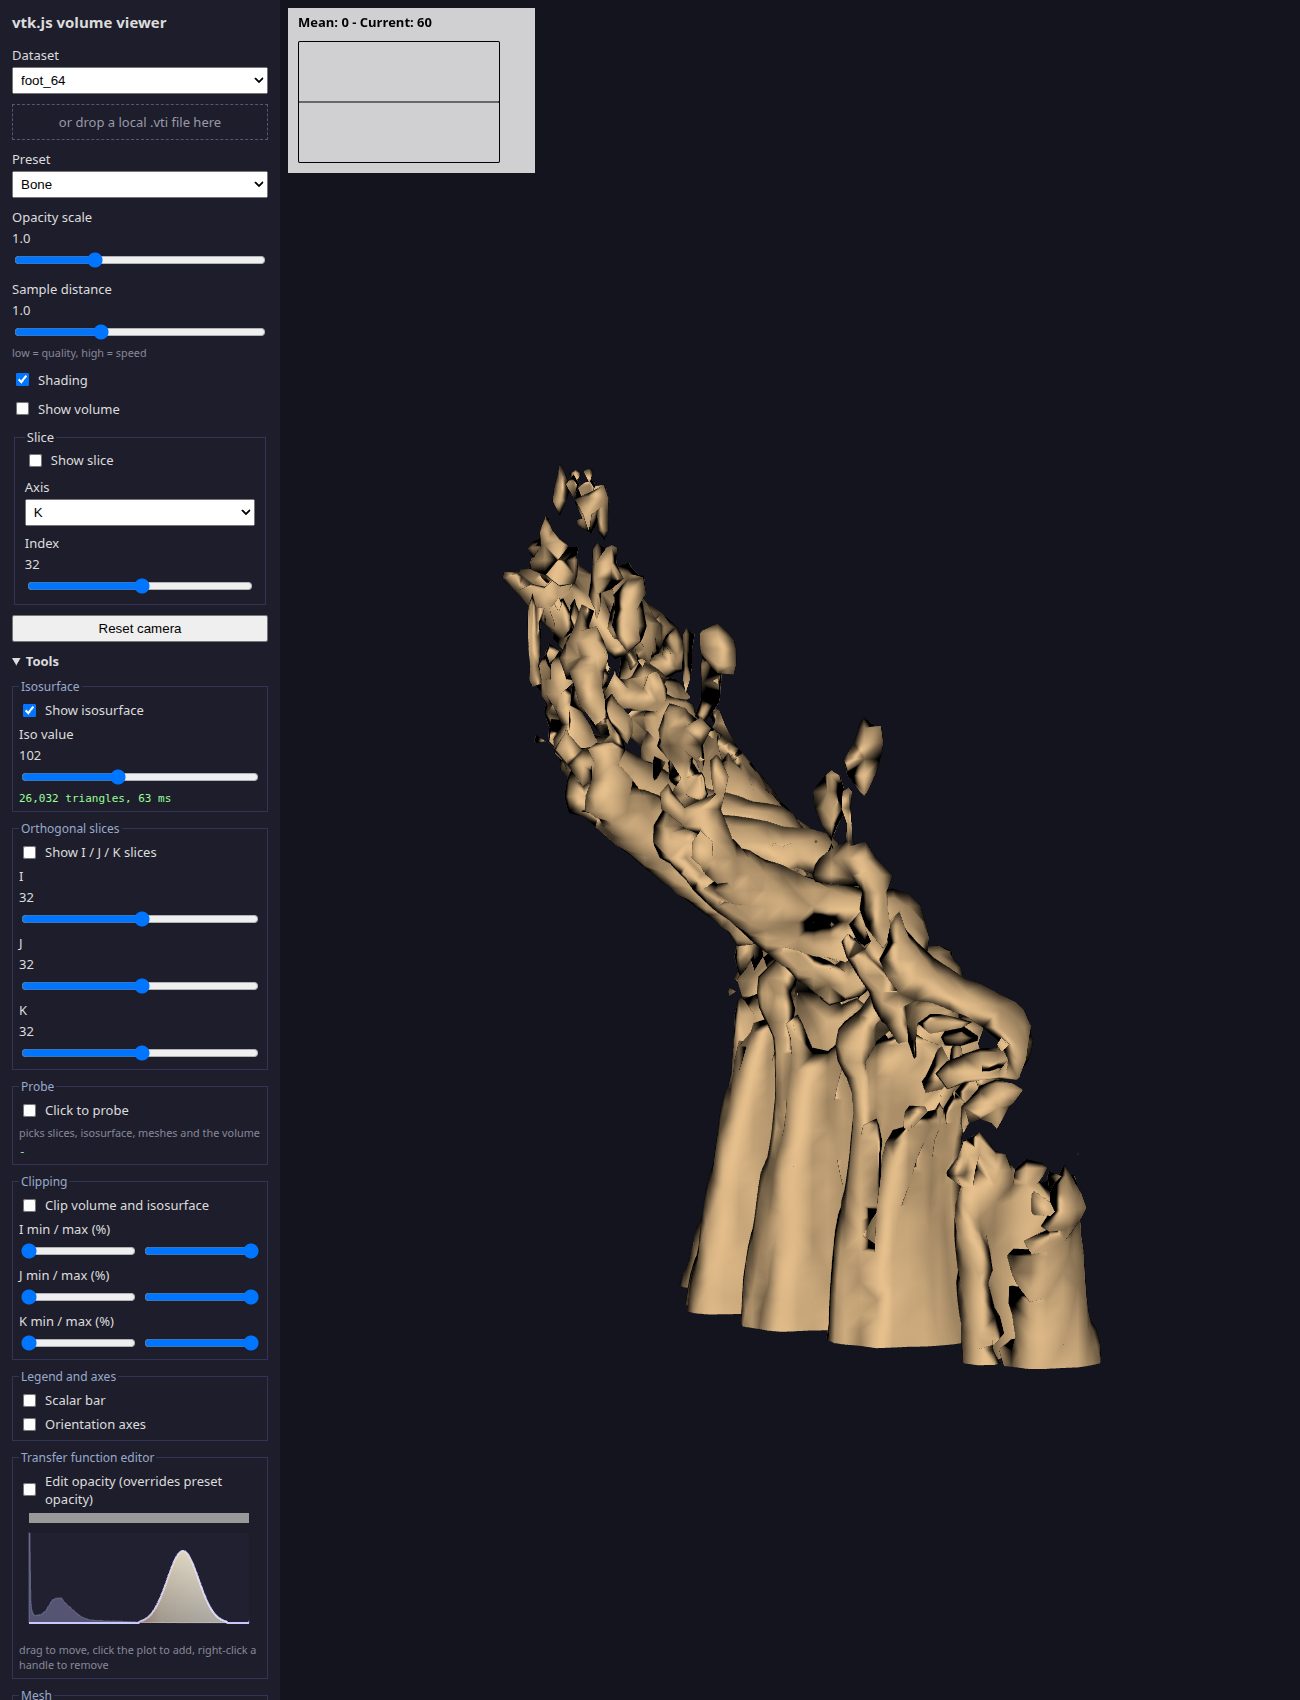
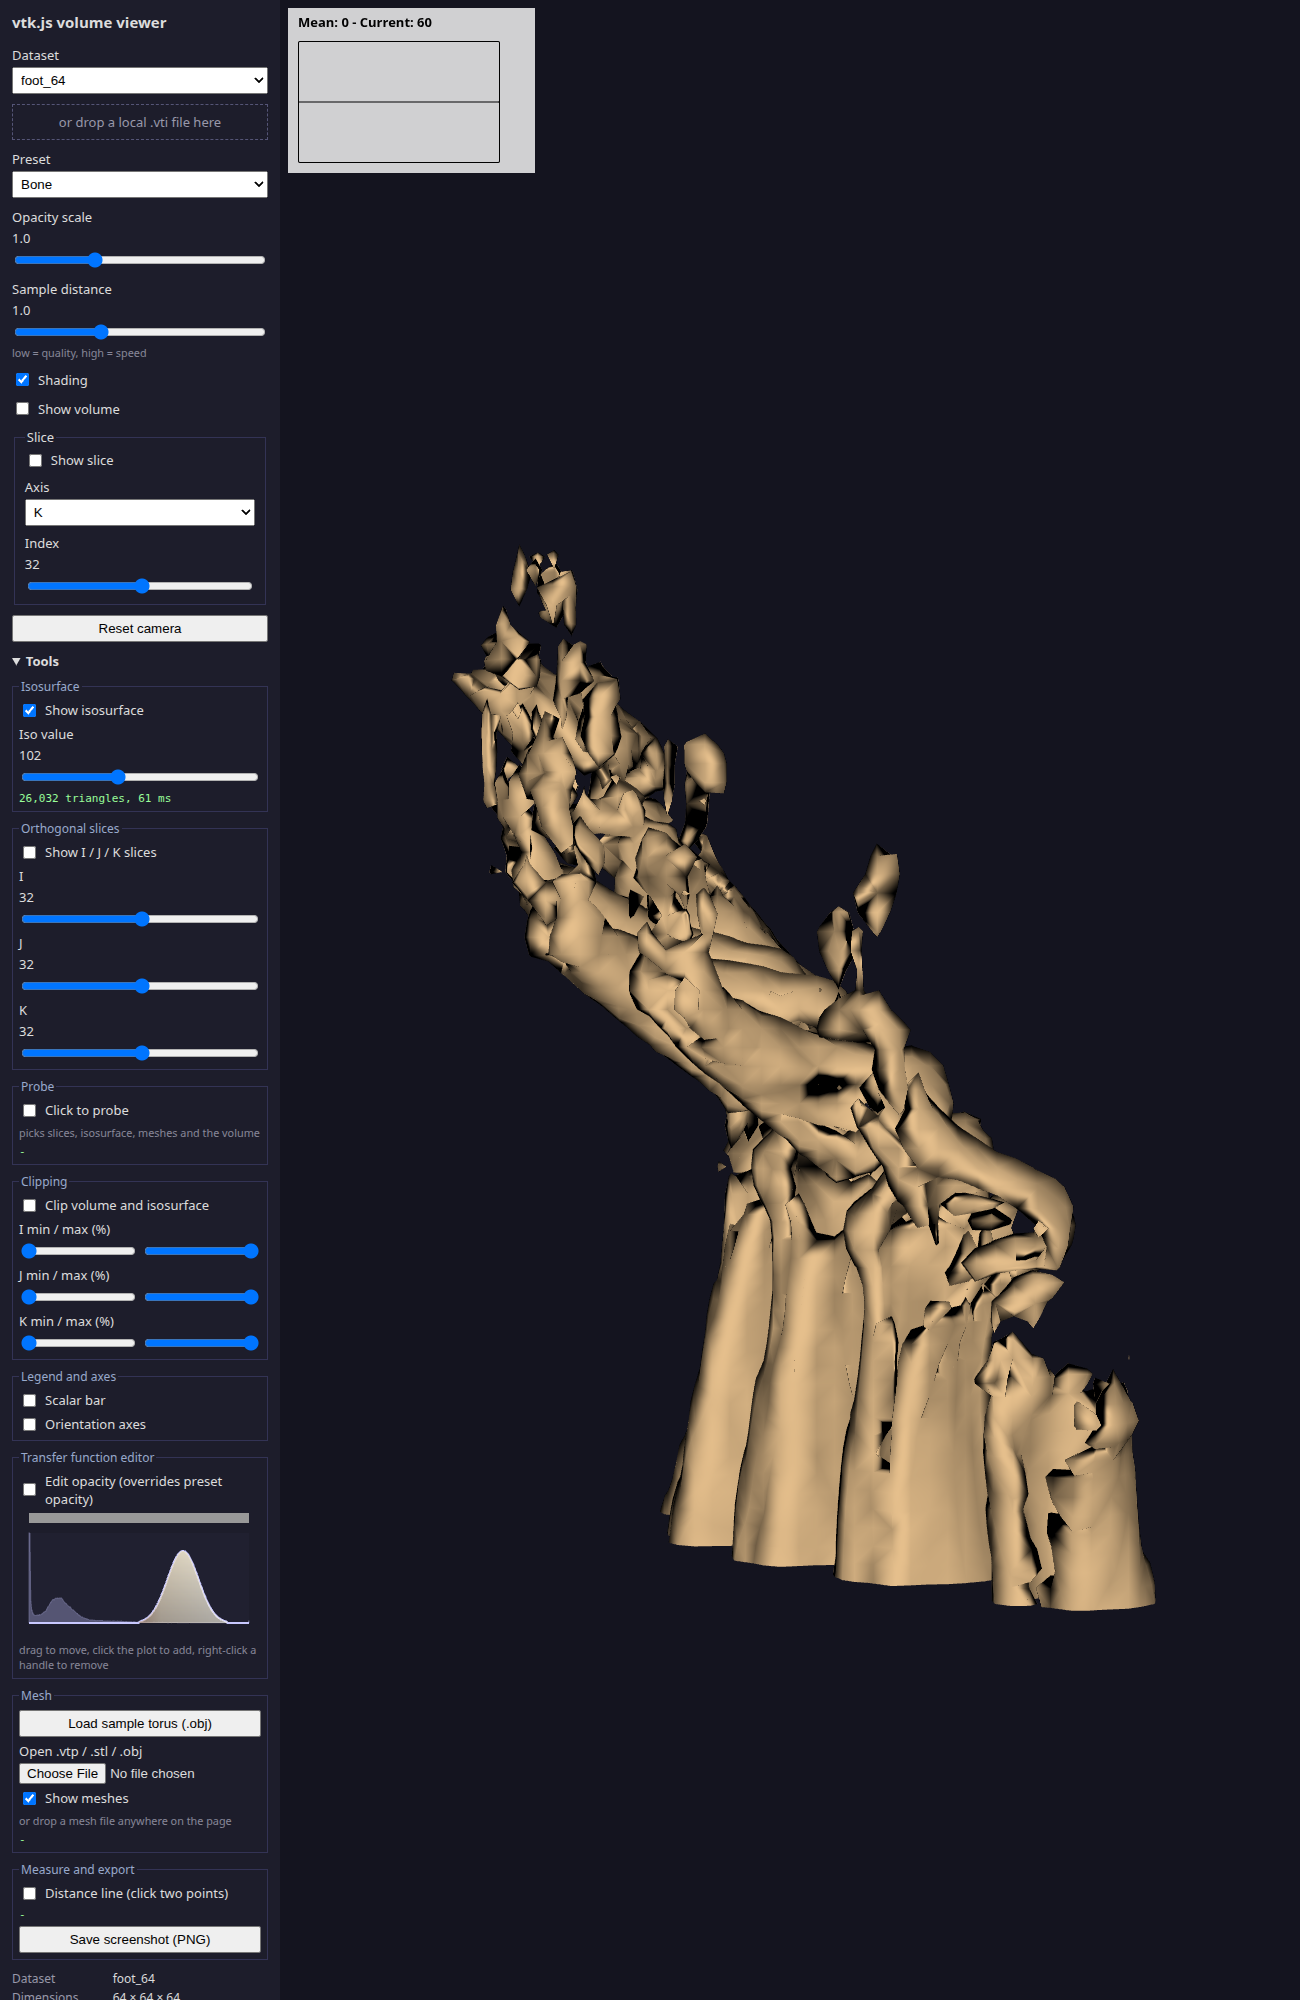
M7: Showcase A tools (isosurface, MPR, probe, clip, legend/axes, TF editor, mesh, measure, WebGPU probe)

Changed region(s): [[0.0, 0.0, 0.4, 1.0], [0.3385, 0.2806, 0.8923, 0.8106], [0.2154, 0.0, 0.3385, 0.0312]]

diff --git a/showcase-a/src/tools/index.js b/showcase-a/src/tools/index.js
@@ -51,7 +51,7 @@ export function initTools(viewer, body, ui) {
       <output class="res"></output>`);
     const mc = vtkImageMarchingCubes.newInstance({ contourValue: 100, computeNormals: true, mergePoints: true });
     const mapper = vtkMapper.newInstance({ scalarVisibility: false });
-    mapper.setInputConnection(mc.getOutputPort());
+    let connected = false; // connected on first use: an input-less mapper logs errors under the WebGPU view
     const actor = vtkActor.newInstance();
     actor.setMapper(mapper);
     actor.getProperty().setColor(0.9, 0.75, 0.55);
@@ -64,6 +64,7 @@ export function initTools(viewer, body, ui) {
       const t = performance.now();
       mc.setContourValue(+v.value);
       mc.setInputData(image);
+      if (!connected) { mapper.setInputConnection(mc.getOutputPort()); connected = true; }
       mc.update();
       const tris = mc.getOutputData().getPolys().getNumberOfCells();
       res.textContent = `${tris.toLocaleString()} triangles, ${(performance.now() - t).toFixed(0)} ms`;
@@ -105,7 +106,15 @@ export function initTools(viewer, body, ui) {
       const r = f.$(`.s${a}`);
       r.oninput = () => { m.setSlice(+r.value); f.$(`.o${a}`).textContent = r.value; render(); };
     }
-    f.$('.on').onchange = (e) => { for (const a in slices) slices[a].s.setVisibility(e.target.checked); render(); };
+    f.$('.on').onchange = (e) => {
+      for (const a in slices) slices[a].s.setVisibility(e.target.checked);
+      if (e.target.checked) { // oblique view so the three planes are distinguishable
+        const cam = renderer.getActiveCamera();
+        cam.azimuth(35); cam.elevation(25); cam.orthogonalizeViewUp();
+        renderer.resetCameraClippingRange();
+      }
+      render();
+    };
     return {
       actors: () => Object.values(slices).map((x) => x.s),
       setImage(im) {
@@ -210,6 +219,7 @@ export function initTools(viewer, body, ui) {
     const bar = vtkScalarBarActor.newInstance();
     bar.setScalarsToColors(ctf);
     bar.setAxisLabel('Intensity');
+    bar.setDrawNanAnnotation(false);
     bar.setVisibility(false);
     renderer.addActor(bar);
     const marker = vtkOrientationMarkerWidget.newInstance({
@@ -287,8 +297,7 @@ export function initTools(viewer, body, ui) {
           handle.onInteractionEvent(show);
           handle.onEndInteractionEvent(show);
         }
-        handle.setVisibility?.(true);
-        widget.reset();
+        handle.reset?.();
         wm.grabFocus(widget);
         res.textContent = 'click two points';
       } else if (handle) {

diff --git a/showcase-a/src/viewer.js b/showcase-a/src/viewer.js
@@ -22,7 +22,7 @@ export function parseVti(arrayBuffer) {
 // api: undefined = default WebGL2 view, 'WebGPU' = experimental WebGPU view (see tools/webgpu.js)
 export function createViewer(container, { fps = false, api } = {}) {
   const fsrw = vtkFullScreenRenderWindow.newInstance({
-    ...(api ? { viewAPI: api } : {}),
+    ...(api ? { defaultViewAPI: api } : {}),
     rootContainer: container,
     containerStyle: { position: 'absolute', inset: '0' },
     background: [0.08, 0.08, 0.12],

diff --git a/report/features_a_log.md b/report/features_a_log.md
@@ -1,0 +1,94 @@
+# Showcase A feature log (Stream A, 2026-10-28)
+
+Scope: vtk.js 37.4.6 (pinned, unchanged; no new npm dependencies). All new UI sits in a collapsible "Tools" section
+of the control panel (`showcase-a/src/ui.js` creates the `<details id="tools">`; the fieldsets are built in
+`showcase-a/src/tools/`). The dev screenshots in `report/figures/feat_a_*.png` were taken with headless Chrome
+(puppeteer-core) on software GL (SwiftShader) with the `foot_64` dataset, so they show correctness only, not speed.
+Minutes are approximate wall-clock including testing. Every API was checked against
+`showcase-a/node_modules/@kitware/vtk.js` before use.
+
+Files added: `src/tools/index.js`, `src/tools/mesh.js`, `src/tools/webgpu.js`, `gen_sample_mesh.mjs`,
+`public/mesh/sample_torus.obj` (125 KB generated torus, 2304 triangles). Files changed: `src/viewer.js` (exports
+`volume, volMapper, slice, ctf, ofun`; optional `api` argument), `src/ui.js` (Tools container), `src/main.js` (wiring,
+mesh drop routing, `?api=webgpu`), `index.html` (CSS for Tools). `src/bench.js` is untouched and calls
+`createViewer(container)` with the same arguments as before.
+
+| # | Feature | Status | Min |
+|---|---|---|---|
+| 1 | Isosurface | works | 15 |
+| 2 | Three orthogonal slices | works | 8 |
+| 3 | Probe (IJK + value) | works | 8 |
+| 4 | Clipping | works | 8 |
+| 5 | Scalar bar + orientation axes | works | 6 |
+| 6 | Transfer-function editor | works | 8 |
+| 7 | Mesh loading | works (.obj tested; .vtp/.stl not tested) | 8 |
+| 8 | Distance line + screenshot export | works | 15 |
+| 9 | WebGPU probe | partial | 20 |
+
+## 1. Isosurface
+- Status: works.
+- Modules: `Filters/General/ImageMarchingCubes` (`contourValue`, `computeNormals`, `mergePoints`), `Rendering/Core/Mapper`, `Rendering/Core/Actor`.
+- Use: Tools > Isosurface > "Show isosurface"; the slider range follows the dataset scalar range; the surface is recomputed on slider release (`change`). The result line shows triangle count and compute time.
+- Observed: foot_64 at value 102 gave 26,032 triangles in 63 ms; value 60 gave 40,296 triangles in 37 ms. The filter runs on the main thread (a JS triple loop over all voxels), so 256^3 volumes block the page while it runs; not timed on 256^3. The mapper is connected to the filter on first use, because an input-less mapper logs "No input" errors under the WebGPU view.
+- Screenshot: `report/figures/feat_a_isosurface.png` (volume hidden, surface only; software GL dev shot).
+
+## 2. Three orthogonal slices
+- Status: works.
+- Modules: `Rendering/Core/ImageSlice`, `Rendering/Core/ImageMapper` (slicing modes I/J/K), shared `vtkColorTransferFunction`.
+- Use: Tools > Orthogonal slices > "Show I / J / K slices"; three sliders. Enabling it rotates the camera (azimuth 35, elevation 25) so the planes can be told apart.
+- Observed: the slices use the preset colour function without opacity, so a black background value is opaque and hides the volume behind the planes (same behaviour as the existing single slice). The existing "Slice" fieldset is unchanged.
+- Screenshot: `report/figures/feat_a_mpr.png`.
+
+## 3. Probe
+- Status: works.
+- Modules: `Rendering/Core/CellPicker` (`pickFromList`, `getPickedPositions`), `Filters/Sources/SphereSource` for the marker, `image.worldToIndex`.
+- Use: Tools > Probe > "Click to probe", then click the 3D view; the panel shows world position, IJK and the voxel value. A click that moves more than 3 px is treated as a camera drag and ignored.
+- Observed: picks the visible slices, isosurface, meshes and the volume (the volume is picked through its opacity function, `opacityThreshold` 0.2). Test on foot_64 returned world (127.5, 127.5, 147.7), IJK (32, 32, 37), value 198. The value is the nearest voxel (rounded IJK), not interpolated. Picks outside the image report "outside image".
+- Screenshot: `report/figures/feat_a_probe.png`.
+
+## 4. Clipping
+- Status: works.
+- Modules: `Common/DataModel/Plane`, `addClippingPlane` / `removeAllClippingPlanes` (`Rendering/Core/AbstractMapper`) on the volume mapper and the isosurface mapper.
+- Use: Tools > Clipping > "Clip volume and isosurface"; min/max sliders per axis in percent of the image bounds. Six planes are always used; the shader keeps the half-space the normal points to.
+- Observed: the OpenGL volume shader supports at most 6 clipping planes (`vClipPlaneNormals[6]`), which is exactly what is used. Not using `vtkImageCroppingWidget`; plain planes were simpler. Mesh actors and slices are not clipped.
+- Screenshot: `report/figures/feat_a_clip.png` (I min 45 %, K max 60 %).
+
+## 5. Scalar bar and orientation axes
+- Status: works.
+- Modules: `Rendering/Core/ScalarBarActor` (bound to the colour transfer function, NaN annotation off), `Interaction/Widgets/OrientationMarkerWidget` with `Rendering/Core/AxesActor`.
+- Use: Tools > Legend and axes, two checkboxes.
+- Observed: needed the `Rendering/Profiles/Geometry` import (the Volume profile alone does not register the geometry classes the scalar bar needs). The bar shows the colour function, not opacity.
+- Screenshot: `report/figures/feat_a_legend_axes.png`.
+
+## 6. Transfer-function editor
+- Status: works.
+- Modules: `Interaction/Widgets/PiecewiseGaussianWidget` (histogram from the scalar array, `applyOpacity` into the volume's piecewise function).
+- Use: Tools > Transfer function editor > tick "Edit opacity"; drag the Gaussian handles, click the plot to add one, right-click a handle to remove it.
+- Observed: while enabled it overrides the preset opacity; changing the preset or the "Opacity scale" slider unticks it (the preset code rewrites the same piecewise function). Only opacity is edited; colour still comes from the preset. The histogram is computed from the full scalar array on each dataset load. A drag via puppeteer moved the Gaussian and the volume re-rendered.
+- Screenshot: `report/figures/feat_a_tf_editor_dragged.png`.
+
+## 7. Mesh loading
+- Status: works for `.obj` (tested through the sample button); `.vtp` and `.stl` code paths use `XMLPolyDataReader` and `STLReader` but were not exercised with files.
+- Modules: `IO/Misc/OBJReader`, `IO/Geometry/STLReader`, `IO/XML/XMLPolyDataReader`.
+- Use: Tools > Mesh > "Load sample torus (.obj)", the file input, or drop a `.vtp/.stl/.obj` file on the page (main.js routes by extension; `.vti` drops behave as before).
+- Observed: meshes are shown in world coordinates and the camera is not reset, so a mesh far from the volume may be off screen. The sample is generated by `node gen_sample_mesh.mjs` and sits in the middle of the 256^3 sample volumes. The loaded mesh is not removed by loading another; the "Show meshes" checkbox hides all of them.
+- Screenshot: `report/figures/feat_a_mesh.png`.
+
+## 8. Distance measurement and screenshot export
+- Status: works.
+- Modules: `Widgets/Widgets3D/LineWidget` (`getDistance`), `Widgets/Core/WidgetManager` (`ViewTypes.VOLUME`, `grabFocus`), `Widgets/Manipulators/PlaneManipulator`; export uses `getApiSpecificRenderWindow().captureNextImage('image/png')`.
+- Use: Tools > Measure and export > "Distance line", click two points in the 3D view; the distance is shown in world units and updates when a handle is dragged. "Save screenshot (PNG)" downloads `vtkjs_viewer.png`.
+- Observed: the points are placed on a camera-facing plane through the image centre (`setWidgetOrigin`), not on a surface or voxel, so the distance is a plane measurement. Unticking removes the widget. Test distance 83.74 on foot_64. The export produced a PNG data URL of about 1.2 MB (checked by intercepting the anchor click; the file itself was not opened). The first test failed because `widget.reset` is on the view widget (`handle.reset`), fixed.
+- Screenshot: `report/figures/feat_a_measure.png`.
+
+## 9. WebGPU probe
+- Status: partial.
+- Modules: `Rendering/Profiles/Volume` already imports the WebGPU volume, image-slice and geometry classes; `FullScreenRenderWindow` selects the view through its `defaultViewAPI` initial value (the `viewAPI` URL parameter also works there, the `viewAPI` initial value does not).
+- Use: open `?api=webgpu`. `src/tools/webgpu.js` queries `navigator.gpu` and the adapter, and adds a "WebGPU" row to the info list. The default page (no parameter) is unchanged.
+- Observed: in headless Chrome with `--enable-unsafe-webgpu` the adapter reported "google / swiftshader" (software). With the WebGPU view active on the 256^3 foot, the console showed "No input!" errors and the tab then closed ("Target closed") during the test, so no WebGPU render was obtained and no screenshot is provided. Not tested on a real GPU. Not run: side-by-side check of which vtk.js classes lack a WebGPU implementation. `getGLInformations` (used for the "WebGL renderer" row) is undefined under the WebGPU view and falls back to "unknown".
+- Screenshot: none.
+
+## Not done
+- `vtkImageCroppingWidget` (box cropping); plane sliders were used instead.
+- `.vtp` / `.stl` sample files and a test of those readers.
+- Timing of the isosurface on 256^3 volumes and the WebGPU render path on a real GPU.
